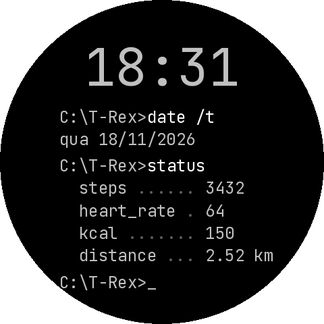
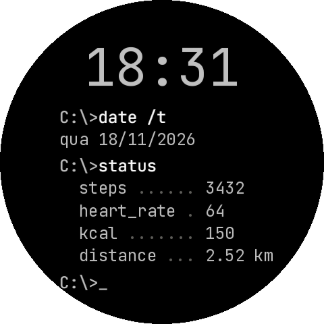
Renomeia para CMD, prompt C:\> e prepara para a Zepp Store
- Nome: T-Rex CMD -> CMD e prompt C:\T-Rex> -> C:\> (evita marca registrada)
- icon.png atualizado com o prompt novo
- appId do Zepp Console
- Texto completo da licença OFL da JetBrains Mono
- Preview no README (docs/preview.png)

diff --git a/watchface/index.js b/watchface/index.js
@@ -1,15 +1,15 @@
 /**
- * T-Rex CMD — mostrador estilo prompt de comando para Amazfit T-Rex 3 (480x480, Zepp OS)
+ * CMD — mostrador estilo prompt de comando para Amazfit T-Rex 3 (480x480, Zepp OS)
  *
  *              18:30
- *   C:\T-Rex>date /t
+ *   C:\>date /t
  *   qua 18/11/2026
- *   C:\T-Rex>status
+ *   C:\>status
  *     steps ...... 3432
  *     heart_rate . 64
  *     kcal ....... 150
  *     distance ... 2.52 km
- *   C:\T-Rex>_          (cursor piscando)
+ *   C:\>_          (cursor piscando)
  */
 import { createWidget, widget, align, prop, text_style } from '@zos/ui'
 import { Time, Step, HeartRate, Calorie, Distance } from '@zos/sensor'
@@ -29,7 +29,7 @@ const ADV = 0.6 // JetBrains Mono: 600/1000 em por caractere
 const X = 88
 const SIZE = 24
 const LINE_H = 33
-const PROMPT = 'C:\\T-Rex>'
+const PROMPT = 'C:\\>'
 const CURSOR_MS = 500
 
 // y de cada linha (topo)
@@ -90,7 +90,7 @@ class Row {
   }
 }
 
-/** `C:\T-Rex>comando` */
+/** `C:\>comando` */
 function commandLine(y, cmd) {
   return new Row(y, [
     { text: PROMPT, color: C.text },

diff --git a/README.md b/README.md
@@ -1,18 +1,8 @@
-# T-Rex CMD — mostrador para Amazfit T-Rex 3
+# CMD — mostrador para Amazfit T-Rex 3
 
 Mostrador estilo prompt de comando (Zepp OS, 480x480): hora, data, passos, batimentos, kcal e distância.
 
-```
-            18:30
- C:\T-Rex>date /t
- qua 18/11/2026
- C:\T-Rex>status
-   steps ...... 3432
-   heart_rate . 64
-   kcal ....... 150
-   distance ... 2.52 km
- C:\T-Rex>_
-```
+![Preview do mostrador](docs/preview.png)
 
 Tem `appId` próprio, então pode ficar instalado junto com os outros mostradores.
 
